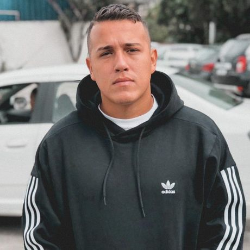
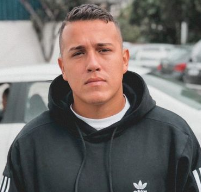
update

diff --git a/style.css b/style.css
@@ -4,9 +4,23 @@
     box-sizing: border-box;
 }
 
+:root {
+    --text--color: white;
+    --background--color: black;
+    --social--color: rgb(255, 255, 255, 0.2);
+    --switch-img-url: url(./image/moon-outline.svg);
+}
+
+.light {
+    --text--color: black;
+    --background--color: grey;
+    --social--color: rgb(255, 255, 255, 0.4);
+    --switch-img-url: url(./image/sunny-outline.svg);
+}
+
 body {
     display: flex;
-    background: black;
+    background: var(--background--color);
     /*background-image: url("./image/cod.jpg");*/
     background-size: cover;
     background-position: top center;
@@ -15,17 +29,22 @@ body {
 
 body * {
     font-family: "Inter", sans-serif;
-    color: #ffffff;
+    color: var(--text--color);
 }   
 
 #container {
     width: 360px;
    /* height: 712px; */
     border-radius: 10px;
-    margin: 52px auto 0px;
-    padding: 0 24px 12px;
-    border: 2px solid white;
-    box-shadow: 0 0 14px rgb(255, 255, 255, 0.9);
+    margin: 30px auto 0px;
+    padding: 0px 24px 12px;
+    border: 2px solid var(--text--color) ;
+
+    
+}
+
+#container:hover {
+    box-shadow: 0 0 10px var(--text--color);
 }
 
 #profile {
@@ -36,13 +55,49 @@ body * {
 #profile img {
     width: 112px;
     border-radius: 100px;
-    border: 2px solid rgb(255, 255, 255);
+    border: 2px solid var(--text--color);
+    zoom: 110%;
 }
 
 #profile p {
     font-weight:  500;
     line-height: 24px;
-    margin-top: 8px;
+    margin-top: 2px;
+}
+
+#switch {
+    position: relative;
+    width: 64px;
+
+    margin: 4px auto;
+}
+
+#switch button {
+    width: 24px;
+    height: 24px;
+    background: white var(--switch-img-url) no-repeat center;
+    border: 0;
+    border-radius: 50%;
+
+    position: absolute;
+    top: 50%;
+    left: 0;
+    z-index: 1;
+    transform: translateY(-50%);
+}
+
+.light #switch button {
+    right: 0;
+    left: initial;
+}
+
+#switch span {
+    display: block;
+    width: 64px;
+    height: 20px;
+    background: var(--background--color);
+    border: 1px solid var(--text--color);
+    border-radius: 9999px;
 }
 
 ul {
@@ -59,23 +114,23 @@ ul li a{
     align-items: center;
     padding: 14px;
 
-    background: rgba(0, 0, 0, 0.4);
-    border: 1px solid rgba(255, 255, 255, 0.5);
+    background: var(--background--color);
+    border: 1px solid var(--text--color);
     border-radius: 8px;
-
+/*
     backdrop-filter: blur(4px);
     -webkit-backdrop-filter: blur(4px);
-
+*/
     text-decoration: none;
     font-weight: 800;
 
-    transition: all .3s;
+    transition: all .2s;
 }
 
 ul li a:hover {
-    background: rgba(255, 255, 255);
-    border: 1px solid rgba(255, 255, 255);
-    color: black;
+    background: var(--text--color);
+    box-shadow: 0 0 14px var(--text--color);
+    color: var(--background--color);
 }
 
 #social-links {
@@ -91,12 +146,18 @@ ul li a:hover {
     display: flex;
     align-items: center;
     justify-content: center;
-    padding: 16px;q
+    padding: 16px;
 
     transition: background .2s;
     border-radius: 50%;
 }
 
 #social-links a:hover {
-    background: rgb(255, 255, 255, 0.2);
+    background: var(--social--color);
+}
+
+footer {
+    padding: 2px;
+    text-align: center;
+    font-size: 14px;
 }

diff --git a/index.html b/index.html
@@ -1,9 +1,9 @@
 <!DOCTYPE html>
-<html lang="pt-br">
+<html lang="pt-br" class="ligh">
 <head>
     <meta charset="UTF-8">
     <meta name="viewport" content="width=device-width, initial-scale=1.0">
-    <title>Document</title>
+    <title>Renan.Dev</title>
     <link rel="stylesheet" href="style.css">
 </head>
 <body>
@@ -12,39 +12,50 @@
             <img src="./image/renan.png" alt="Foto de perfil de Renan.">
         <p>@_renanpqdt</p>
         </div>
+        <div id="switch">
+            <button>
+                
+            </button>
+            <span>
+
+            </span>
+        </div>
             <ul>
                 <li>
                     <a href="https://github.com/renanfersil" target="_blank">Conheça o meu GitHub</a>
                 </li>
                 
                 <li>
-                    <a href="https://www.linkedin.com/in/renan-fernandes-aab219262/">Veja o meu LinkedIn</a>
+                    <a href="https://www.linkedin.com/in/renan-fernandes-aab219262/" target="_blank">Veja o meu LinkedIn</a>
                 </li>
 
                 <li>
-                    <a href="#">Siga-me no Instagram</a>
+                    <a href="https://www.instagram.com/_pqdtrenan/" target="_blank">Siga-me no Instagram</a>
                 </li>
                 <li>
-                    <a href="#">Contate-me</a>
+                    <a href="#" target="_blank">Contate-me</a>
                 </li>
             </ul>
         <div id="social-links">
-            <a href="https://github.com/renanfersil">
+            <a href="https://github.com/renanfersil" target="_blank">
                 <ion-icon name="logo-github"></ion-icon>
             </a>
 
-            <a href="">
+            <a href="https://www.linkedin.com/in/renan-fernandes-aab219262/" target="_blank">
                 <ion-icon name="logo-linkedin"></ion-icon>
             </a>
 
-            <a href="">
+            <a href="https://www.instagram.com/_pqdtrenan/" target="_blank">
                 <ion-icon name="logo-instagram"></ion-icon>
             </a>
 
-            <a href="">
+            <a href="" target="_blank">
                 <ion-icon name="logo-whatsapp"></ion-icon>
             </a>
         </div>
+        <footer>
+            Feito por <a href="https://www.instagram.com/_pqdtrenan/">Renan.Dev</a>
+        </footer>
     </div>
     <script src="https://unpkg.com/ionicons@4.5.10-0/dist/ionicons.js"></script>
 </body>
